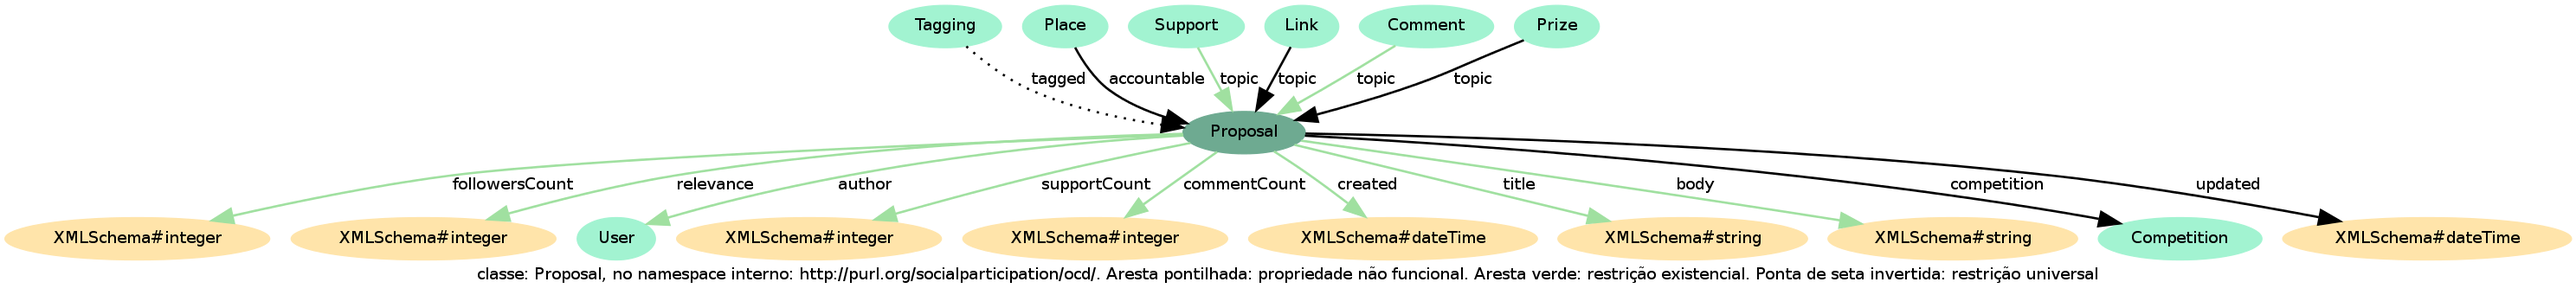
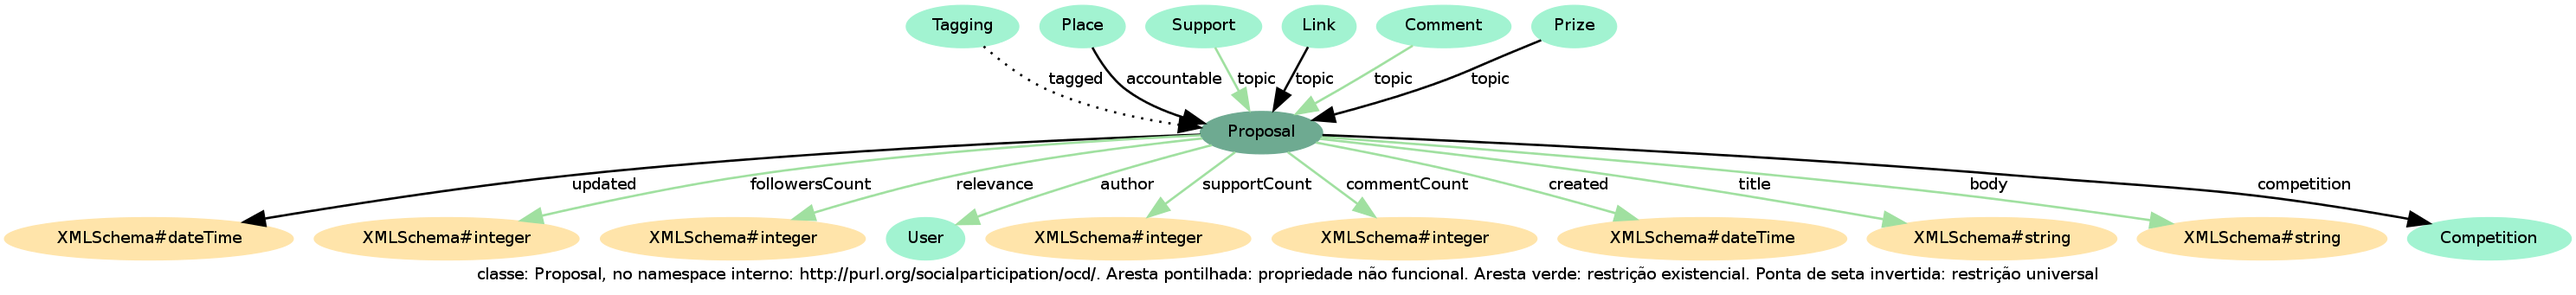
feitas figuras inteiras enriquecidas

Changed region(s): [[0.0, 0.0, 1.0, 0.8798]]

diff --git a/OCD.py b/OCD.py
@@ -432,7 +432,6 @@ for tkey in kk:
             oo=[ii[1] for ii in tr]
             if (elabel_ in pp) and (oo[pp.index(elabel_)]==cl):
                 e.attr["arrowhead"]="inv"
-                e.attr["arrowsize"]=2.
                 print "EXISTENCIAL ANTECEDENTE"
         e.attr["penwidth"]=2.
         e.attr["arrowsize"]=2.
@@ -490,6 +489,7 @@ A.graph_attr["label"]="Diagrama geral da OCD no namespace interno: http://purl.o
 ii=1
 for tkey in kk:
     cl_=tkey.split("/")[-1]
+    cl=tkey
     if cl_ not in A.nodes():
         A.add_node(cl_,style="filled")
         n=A.get_node(cl_)
@@ -506,10 +506,30 @@ for tkey in kk:
         A.add_edge(label,cl_)
         e=A.get_edge(label,cl_)
         e.attr["label"]=elabel
+        if elabel in notFunctionalProperties:
+            e.attr["style"]="dotted"
+        if ex[0][i][0] in Re.keys():
+            tr=Re[ex[0][i][0]]
+            pp=[iii[0] for iii in tr]
+            oo=[iii[1] for iii in tr]
+            if (elabel_ in pp) and (oo[pp.index(elabel_)]==cl):
+                e.attr["color"]="#A0E0A0"
+                print "EXISTENCIAL ANTECEDENTE"
+        if ex[0][i][0] in Ru.keys():
+            tr=Ru[ex[0][i][0]]
+            pp=[iii[0] for iii in tr]
+            oo=[iii[1] for iii in tr]
+            if (elabel_ in pp) and (oo[pp.index(elabel_)]==cl):
+                e.attr["arrowhead"]="inv"
+                print "EXISTENCIAL ANTECEDENTE"
+        e.attr["penwidth"]=2.
+        e.attr["arrowsize"]=2.
+
     print("\n\n")
-    for i in xrange(len(ex[1])):
+    for i in xrange(len(ex[1])): # consequentes
         label=ex[1][i][1].split("/")[-1]
         elabel=ex[1][i][0].split("/")[-1]
+        elabel_=ex[1][i][0]
         print elabel, label
         if "XMLS" in label:
             label_=ii; ii+=1
@@ -527,8 +547,24 @@ for tkey in kk:
         e.attr["label"]=elabel
         e.attr["color"]=color
         e.attr["penwidth"]=2
-A.draw("imgs/OCD_.png",prog="twopi",args="-Granksep=4")
-A.draw("imgs/OCD_2.png",prog="dot",args="-Granksep=.4 -Gsize='1000,1000'")
+        if elabel in notFunctionalProperties:
+            e.attr["style"]="dotted"
+        if cl in Re.keys():
+            tr=Re[cl]
+            pp=[iii[0] for iii in tr]
+            if elabel_ in pp:
+                e.attr["color"]="#A0E0A0"
+                print "EXISTENCIAL"
+        if cl in Ru.keys():
+            tr=Ru[cl]
+            pp=[iii[0] for iii in tr]
+            if elabel_ in pp:
+                e.attr["arrowhead"]="inv"
+                e.attr["arrowsize"]=2.
+                print "UNIVERSAL"
+
+A.draw("imgs/OCD_.png",prog="twopi",args="-Granksep=14")
+A.draw("imgs/OCD_2.png",prog="dot",args="-Granksep=14 -Gsize='1000,1000'")
 print("Wrote geral _ ")
 
 

diff --git a/README.md b/README.md
@@ -31,5 +31,6 @@ Compactações nas triplas são feitas para estar de acordo com as normas do git
     * ocd:tag ocd:tagged ocd:obs, quanto:
     * ocd:tagging ocd:tagged ocd:topico
 * userName é a propriedade name com a restricao de possuir domínio com a classe User. "Defined properties" neste formato de intersecção parece ainda não ser possível. Uma alternativa, caso isso seja desejado, é fazer a busca de todas as triplas { ?s ocd:name ?nome . ?s a ocd:User } e acrescentar na triplestore as triplas ?s ocd:userName ?nome. Além disso, é importante colocar na ontologia que ocd:userName rdfs:subPropertyOf ocd:name. Esta parte pode ser pulada para deixar mais leve e simples a ontologia e a triplificação. Para esta primeira versão, é o que foi feito.
+* Usar ocd:body para ocd:text, usado somente em ocd:Tag ocd:text litera(string)?
 
 
